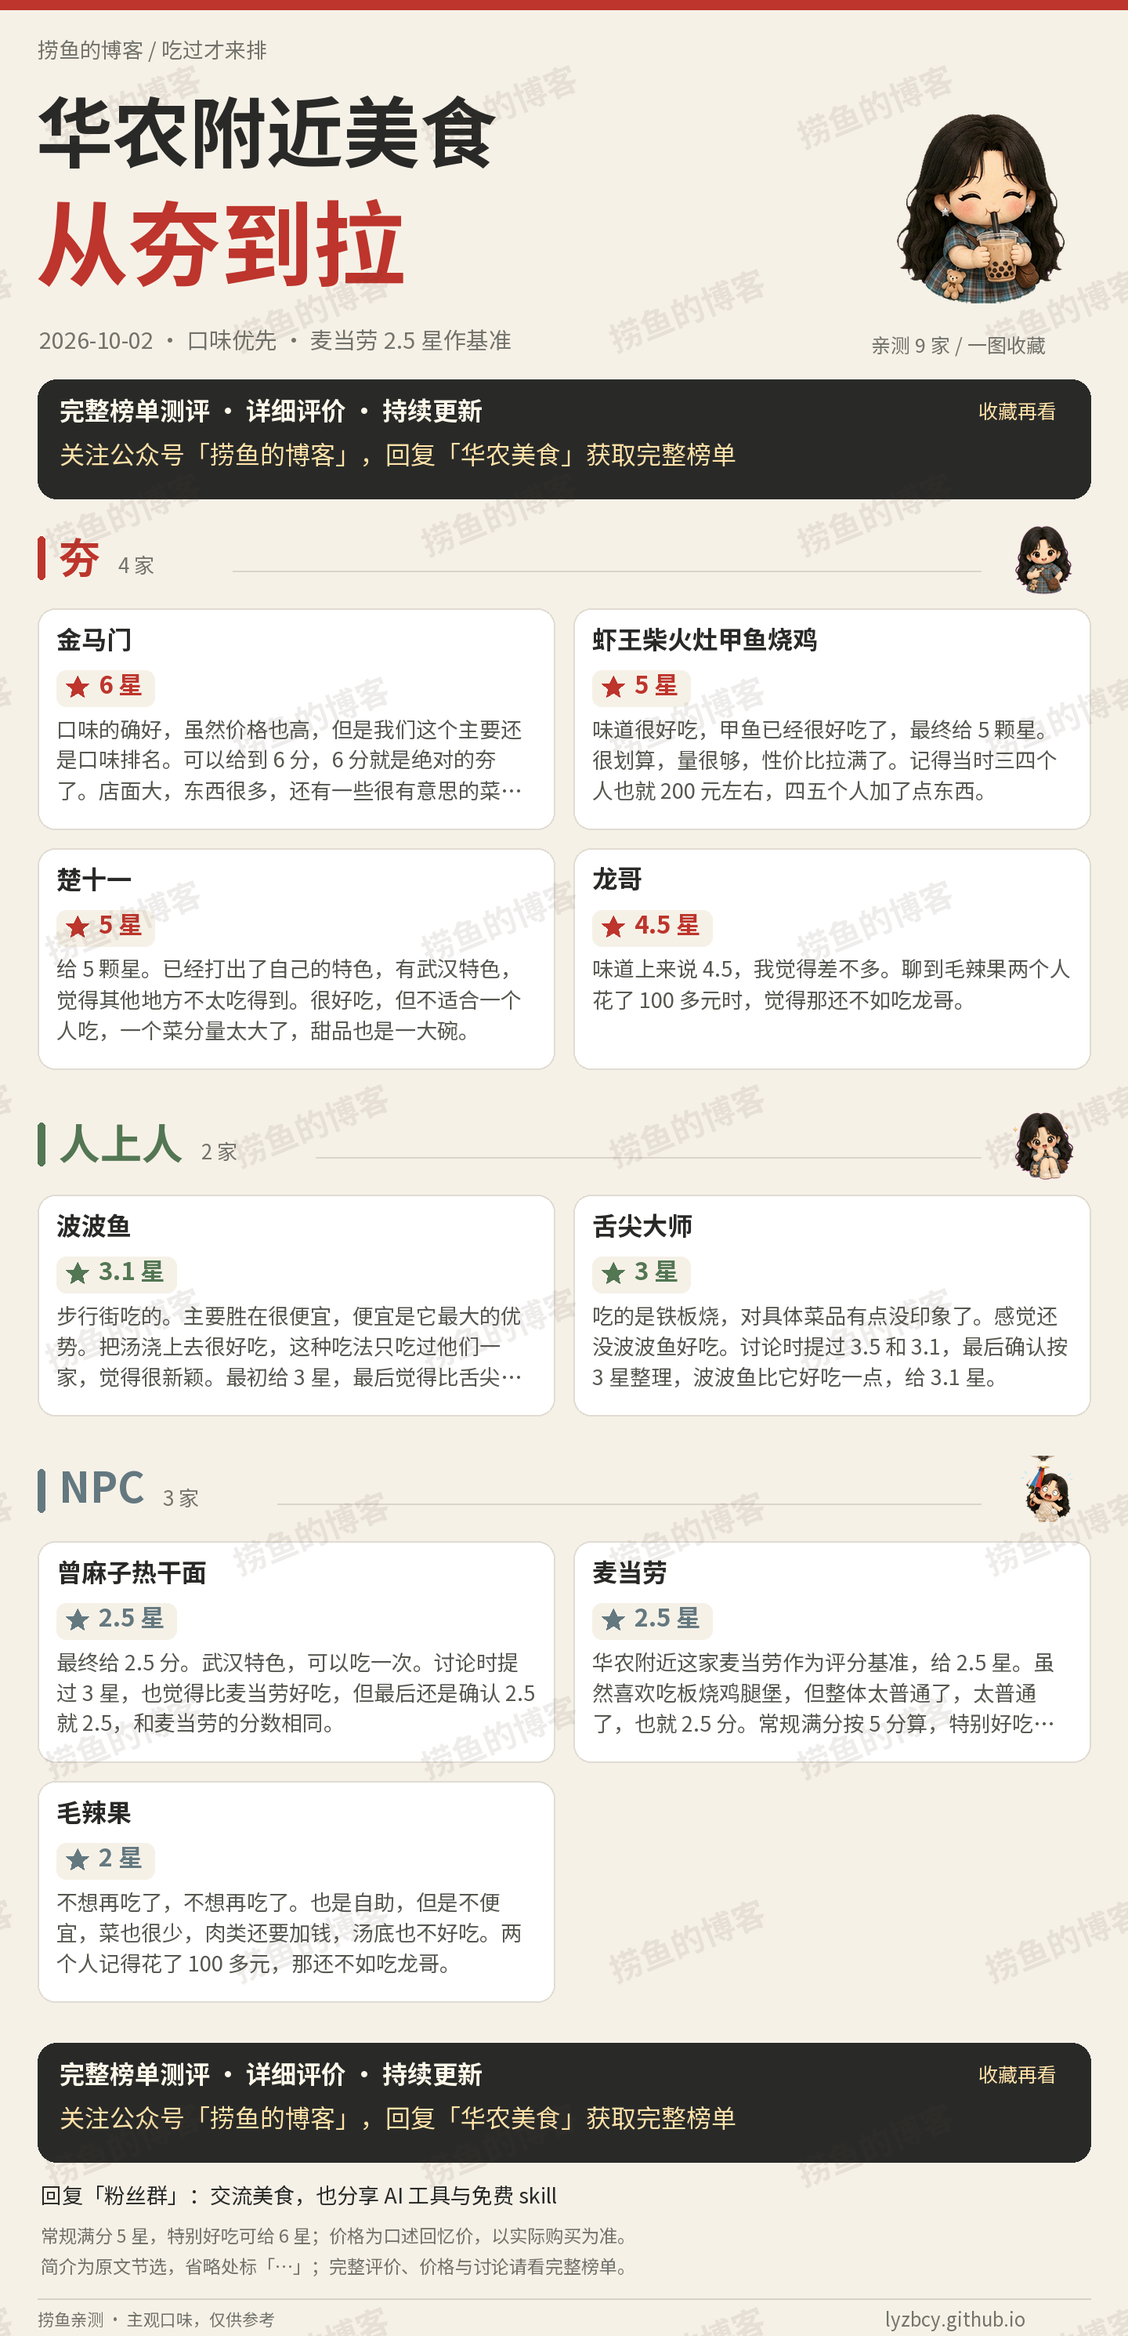
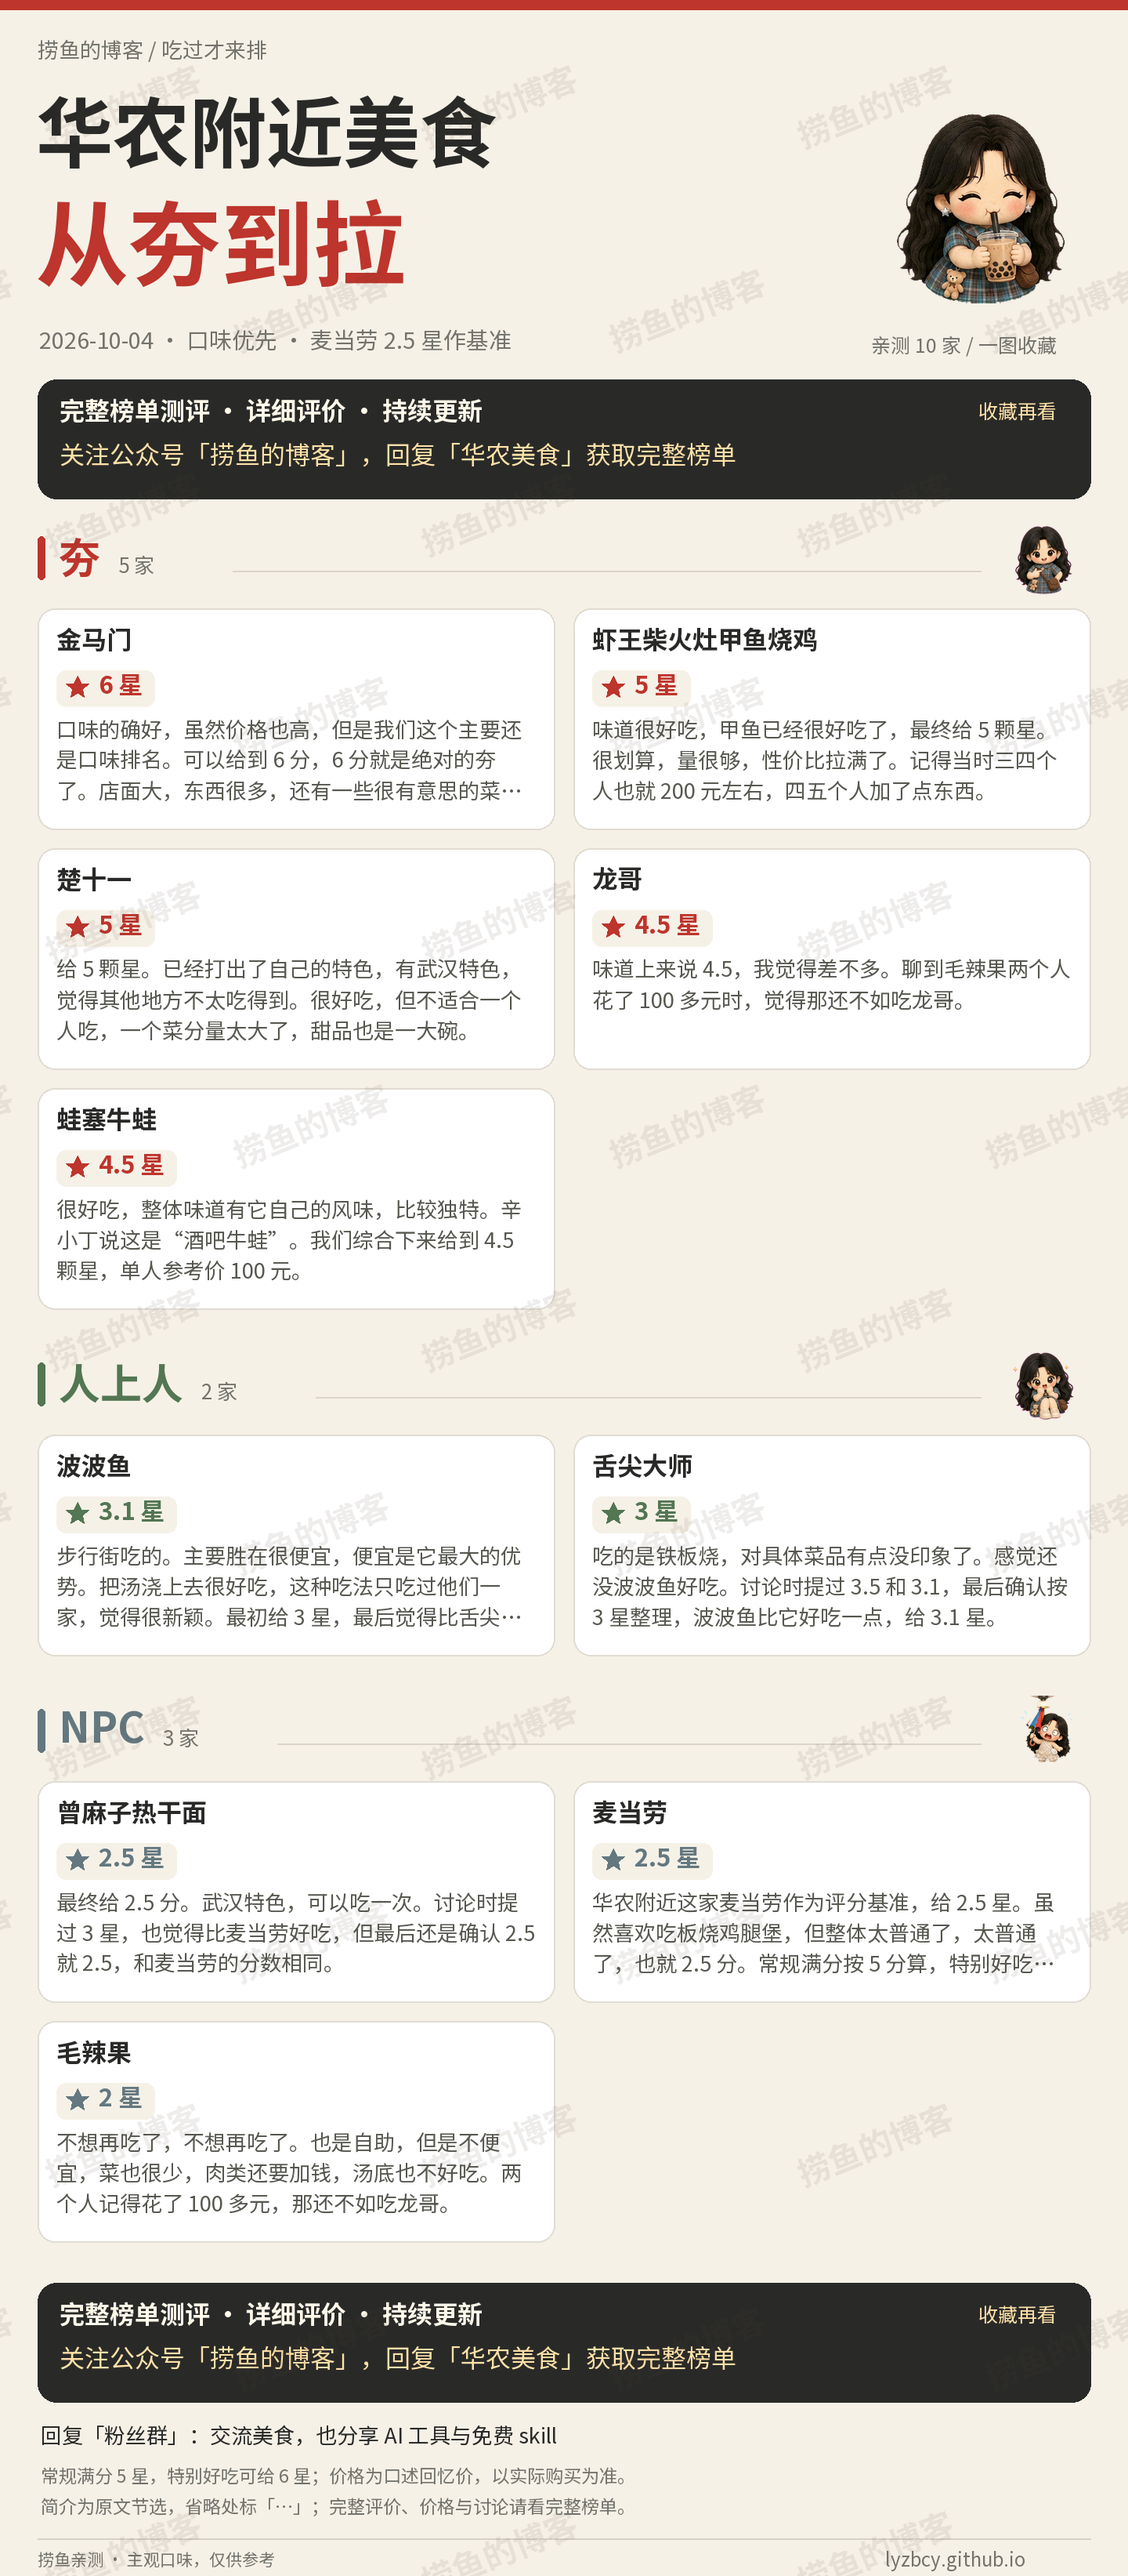
feat(huanong): add 蛙塞牛蛙 4.5-star review and refresh poster

Changed region(s): [[0.0312, 0.0, 0.9688, 0.9987], [0.7188, 0.4993, 0.8125, 0.5305]]

diff --git a/assets/lib-custom/huanong-tier.js b/assets/lib-custom/huanong-tier.js
@@ -81,6 +81,20 @@
       note: '这次没有提到龙哥的价格和具体分店，价格待补。',
     },
     {
+      name: '蛙塞牛蛙',
+      tier: '夯',
+      tierLabel: '夯 · 4.5 星',
+      rating: 4.5,
+      photo: null,
+      description: '很好吃，整体味道有它自己的风味，比较独特。辛小丁说这是“酒吧牛蛙”。我们综合下来给到 4.5 颗星，单人参考价 100 元。',
+      pros: ['很好吃，有自己的独特风味', '馋嘴牛蛙分量很足'],
+      cons: ['再加一碗米饭就好了'],
+      note: '2026-10-03 点的外卖，花了 200 元，吃的是馋嘴牛蛙。单人参考价 100 元。辛小丁建议线下去吃，说堂食有优惠，而且氛围很好；具体优惠以到店时为准。',
+      dishes: [
+        { name: '馋嘴牛蛙', review: '分量很足，很好吃，比较独特，可惜就是再加一碗米饭就好了。' },
+      ],
+    },
+    {
       name: '波波鱼',
       tier: '人上人',
       tierLabel: '人上人 · 3.1 星',

diff --git a/tools/generate_posters.py b/tools/generate_posters.py
@@ -43,7 +43,7 @@ CONFIG = {
                    unit='款', keyword='方便面', sticker='星第3弹-吃饭.png'),
     'drink': dict(stem='drink', title='所有的饮料和奶茶', subtitle='喝过才来排 · 能量饮料与奶茶都在这里',
                   unit='款', keyword='饮料奶茶', sticker='第12弹-心动.png'),
-    'huanong': dict(stem='huanong', title='华农附近美食', subtitle='2026-10-02 · 口味优先 · 麦当劳 2.5 星作基准',
+    'huanong': dict(stem='huanong', title='华农附近美食', subtitle='2026-10-04 · 口味优先 · 麦当劳 2.5 星作基准',
                     unit='家', keyword='华农美食', sticker='第35弹-吸溜.png',
                     cta='关注公众号「捞鱼的博客」，回复「华农美食」获取完整榜单',
                     rule='常规满分 5 星，特别好吃可给 6 星；价格为口述回忆价，以实际购买为准。'),

diff --git a/_posts/2026-10-02-华农附近美食从夯到拉排名.md b/_posts/2026-10-02-华农附近美食从夯到拉排名.md
@@ -2,8 +2,9 @@
 layout: post
 title: "华农附近美食从夯到拉排名"
 date: 2026-10-02 12:00:00 +0800
+last_modified_at: 2026-10-04
 categories: [美食]
-tags: [从夯到拉排名, 美食, 华农, 武汉, 堂食]
+tags: [从夯到拉排名, 美食, 华农, 武汉, 堂食, 外卖]
 description: 华农美食口味榜与武汉逛吃手记，以麦当劳 2.5 星为基准，金马门 6 星超满分，附回忆价、聚餐建议和实拍图位置。
 pin: false
 ---
@@ -761,8 +762,8 @@ pin: false
 
 
 <p>捞鱼和小丁一起吃、一起评的华农附近美食，按口味从夯到拉排。常规满分 <strong>5 星</strong>，特别好吃可以给到 <strong>6 星</strong>；本篇的评分基准是华农附近的<strong>麦当劳 2.5 星</strong>。价格作为参考，口味优先。</p>
-<p>目前共记录 10 家，其中 9 家已评分：金马门 6 星，虾王柴火灶甲鱼烧鸡和楚十一各 5 星，龙哥 4.5 星，波波鱼 3.1 星，舌尖大师 3 星，麦当劳和曾麻子热干面各 2.5 星，毛辣果 2 星。回味黑鸭煲先保留待评分手记。「顶级」「拉完了」暂时没有条目。点击店铺卡片查看评价、吃过的菜、价格和实拍图位置。</p>
-<p><small>根据 2026 年 10 月 2 日口述讨论及最终确认整理。店名沿用口述称呼，具体分店未补充；价格是当时的回忆价，优惠和 A/B/C/D 等级规则以实际购买为准。</small></p>
+<p>目前共记录 11 家，其中 10 家已评分：金马门 6 星，虾王柴火灶甲鱼烧鸡和楚十一各 5 星，龙哥和蛙塞牛蛙各 4.5 星，波波鱼 3.1 星，舌尖大师 3 星，麦当劳和曾麻子热干面各 2.5 星，毛辣果 2 星。回味黑鸭煲先保留待评分手记。「顶级」「拉完了」暂时没有条目。点击店铺卡片查看评价、吃过的菜、价格和实拍图位置。</p>
+<p><small>根据 2026 年 10 月 2 日口述讨论及最终确认整理，10 月 4 日补充蛙塞牛蛙。店名沿用口述称呼，具体分店未补充；价格是当时的回忆价，优惠和 A/B/C/D 等级规则以实际购买为准。</small></p>
 
 <div class="tier-list-container">
   <div class="tier-row">
@@ -813,5 +814,6 @@ pin: false
 
 <!-- 隐藏文本用于字数统计 -->
 <div style="display: none;">
+2026-10-04追加：蛙塞牛蛙，夯4.5星，单人参考价100元。2026-10-03点外卖花了200元，吃的是馋嘴牛蛙，分量很足，可惜就是再加一碗米饭就好了。整体很好吃，有自己的独特风味。辛小丁称其为酒吧牛蛙，建议线下去吃，说有优惠而且氛围很好，具体优惠以到店时为准。店铺与菜品均预留实拍图位置。
 华农附近美食从夯到拉排名。捞鱼和小丁口述，口味优先，常规满分5星，特别好吃可给6星。麦当劳是评分基准，NPC，2.5星，喜欢板烧鸡腿堡但整体太普通。金马门，夯，6星超满分，口味的确好，店面大东西多，虾加炼乳很美味，榴莲好吃，有一款汤喝了两碗但汤名待补；人均约160元，午餐学生或闲鱼优惠记得约140–145元但未确认；A/B/C/D等级，团购A档位置稍差，取餐走路可能多花约10分钟，规则以购买时为准。龙哥，夯，4.5星，味道上来说4.5，觉得比毛辣果值得吃，价格未提及。波波鱼，人上人，3.1星，步行街，便宜是最大优势，汤浇上去很好吃，吃法新颖，略胜舌尖大师；单人约30多元，双人回忆价约52–60元，鱼的品种未记清。舌尖大师，人上人，3星，铁板烧，印象不深，感觉不如波波鱼，价格待补。毛辣果，NPC，2星，自助不便宜菜少，肉类另加钱，汤底不好吃，不想再吃，两人回忆价100多元，还不如吃龙哥。2026-10-02追加：虾王柴火灶甲鱼烧鸡，夯5星，甲鱼好吃、量很够、性价比拉满，多人约200元，具体人数和加菜情况记忆不清，适合多人不适合一人吃。楚十一，夯5星，有自己的武汉特色，很好吃，不适合一人吃，一个菜分量大，单菜回忆价40–60元，甜品一大碗，是否连锁未确认。曾麻子热干面，NPC2.5星，武汉特色可以吃一次，最终与麦当劳同分，价格未提及。回味黑鸭煲，待评分，一般般、其他还可以、喜欢辣的，双人套餐139元，折合69.5元每人约70元，挺划算，套餐内容及分店待核实。各店预留实拍图位置，待作者提供图片。所有价格为口述估算。本排名持续更新。
 </div>

diff --git a/skills/lyzbcy-blog-update/references/huanong-tier.md b/skills/lyzbcy-blog-update/references/huanong-tier.md
@@ -17,3 +17,7 @@
 同日第二轮补充：虾王柴火灶甲鱼烧鸡和楚十一各 5 星，曾麻子热干面最终 2.5 星。
 回味黑鸭煲暂存 `pendingStalls`，只有点评和双人 139 元，没有作者给定评分，不进入一图流。
 各店详情的实拍图使用可选 `photo` / `photoAlt` 字段；无图时保留图片区，不用搜索图片冒充实拍。
+
+2026-10-04 补充：蛙塞牛蛙夯 4.5 星，单人参考价 100 元。2026-10-03 外卖花费 200 元，
+馋嘴牛蛙分量很足，再加一碗米饭就好了；菜品录入 `dishes`，不单独赋分。
+辛小丁称其为“酒吧牛蛙”，建议堂食享优惠和氛围；保留为她的建议，不写成此次外卖的堂食体验。
